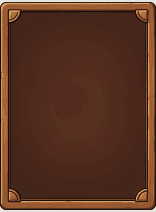
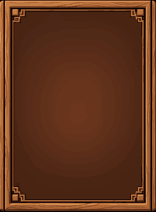
game-card-world: 나무 프레임 다시 생성 (위아래 회색 띠 제거), make_frame.py 가장자리 배경 띠 경고

Changed region(s): [[0.0, 0.0, 1.0, 1.0]]

diff --git a/game-card-world/tools/make_frame.py b/game-card-world/tools/make_frame.py
@@ -34,6 +34,16 @@ FRAME_SUFFIX = (
 )
 
 
+def edge_margin(path):
+    """가장자리 한 줄이 밝은 단색(생성 배경)인 쪽 목록 — 테두리가 이미지 끝까지 안 찬 경우"""
+    from PIL import Image, ImageStat
+    im = Image.open(path).convert("L")
+    w, h = im.size
+    bands = {"top": (0, 0, w, 1), "bottom": (0, h - 1, w, h), "left": (0, 0, 1, h), "right": (w - 1, 0, w, h)}
+    return [side for side, box in bands.items()
+            if (st := ImageStat.Stat(im.crop(box))).stddev[0] < 12 and st.mean[0] > 170]
+
+
 def main():
     ap = argparse.ArgumentParser(description="ComfyUI 카드 프레임 생성")
     ap.add_argument("--name", required=True, help="파일명 frame_<id> (확장자 없이)")
@@ -83,6 +93,8 @@ def main():
 
     full = outputs["save_full"]["images"][0]
     print(f"frame {dest}")
+    if sides := edge_margin(dest):
+        print(f"WARN 가장자리에 배경 띠: {', '.join(sides)} — 다른 seed 로 다시 뽑기")
     print(f"full  ComfyUI output/{full['subfolder']}/{full['filename']}")
 
 

diff --git a/game-card-world/docs/아이콘_생성.md b/game-card-world/docs/아이콘_생성.md
@@ -106,6 +106,8 @@ python tools/make_frame.py --name frame_gold --label 금색 --prompt "warm gold 
 - 결과: `images/frame/frame_<id>.png`, 원본은 ComfyUI output `game-card-world/frame_<id>_full_*.png`
 - `--prompt` 에는 **테두리 재질·색 + 가운데 판 색**만. 틀 모양(정면·얇은 테두리·빈 가운데·글자 없음)은 스크립트가 붙임
 - 가운데 판은 어둡게 — 카드 글자·아이콘이 얹힘
+- 테두리가 이미지 끝까지 안 차면 가장자리에 생성 배경(밝은 회색) 띠가 남는다 → 스크립트가 `WARN 가장자리에 배경 띠` 를 띄움. 다른 seed 로 다시 뽑는다
+  - 프롬프트에 `the border reaches the very top, bottom, left and right edges of the image with no margin and no white or grey background around the card` 를 넣으면 덜 생김
 - 옵션: `--seed`, `--width`/`--height` (기본 156/212), `--colors` (기본 48), `--no-style`, `--force`
 - 기록은 아이콘과 같은 `아이콘_목록.md` 에 자동
 

diff --git a/game-card-world/docs/기능.md b/game-card-world/docs/기능.md
@@ -529,6 +529,8 @@
 - [ ] 캐릭터 카드(기사·갓) = **금색** 프레임 `frame_gold`
 - [ ] 장소 카드(풀 깔개·모닥불, 태그 `장소`) = **회색 돌무늬** 프레임 `frame_stone` — 돌무늬는 테두리에만, 가운데 판은 무늬 없는 짙은 회색
 - [ ] 나머지 카드(재료·음식·도구·불씨·동물·package·quest) = **수수한 나무** 프레임 `frame_wood`
+  - 나무 프레임 다시 뽑음: 이전 것은 위아래 맨 끝 줄에 생성 배경(밝은 회색) 띠가 남았음 → 나무 테두리가 이미지 끝까지 찬 것으로 교체
+  - `make_frame.py` 가 가장자리 배경 띠를 검사해 경고
 - [ ] quest 위에 쌓인 미니 카드도 같은 규칙으로 프레임
   - 판단: 프레임을 카드 전체 배경으로 늘려 깔고(비율 1:1.36 그대로), 카드 테두리선은 투명. 조합 대상 하이라이트 테두리는 그대로 보임
   - 판단: 카드 종류 색 덧칠(10%)은 프레임 위에선 끔

diff --git a/game-card-world/docs/아이콘_목록.md b/game-card-world/docs/아이콘_목록.md
@@ -325,8 +325,8 @@ rough grey carved stone border made of chiseled stone blocks with cracked stone 
 <!-- icon:frame_wood -->
 ### frame_wood — 수수한 나무
 - 파일: `images/frame/frame_wood.png`
-- 생성: 2026-09-15 · seed `112986199388655` · 옵션 기본
+- 생성: 2026-09-15 · seed `188716633562042` · 옵션 기본
 ```
-plain simple modest brown wooden border made of thin wooden strips with subtle wood grain, no ornaments, no carvings, simple square corners, the center panel is a plain flat smooth dark brown color with no wood grain, no pattern
+plain simple modest brown wooden border made of thin wooden strips with subtle wood grain, no ornaments, no carvings, simple square corners, the wooden border reaches the very top, bottom, left and right edges of the image with no margin and no white or grey background around the card, the center panel is a plain flat smooth dark brown color with no wood grain, no pattern
 ```
 <!-- /icon -->
